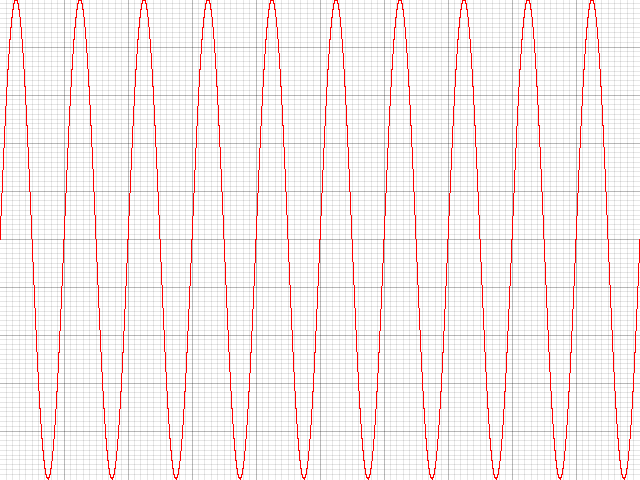
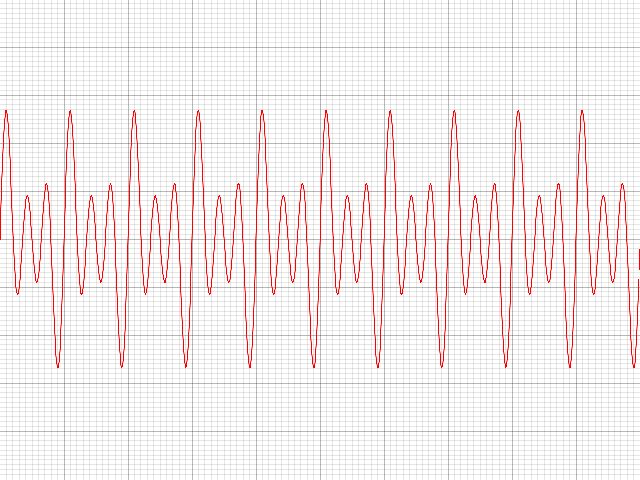
FFT - playground

diff --git a/playground/rust/src/main.rs b/playground/rust/src/main.rs
@@ -1,21 +1,61 @@
 use ndarray::Array1;
 use plotters::prelude::*;
+use rustfft::{FftPlanner, num_complex::Complex};
+
+struct Extent { 
+    xstart: f32, 
+    xend: f32, 
+    ystart: f32, 
+    yend:f32,
+}
+
+impl Extent {
+    fn new(xstart: f32, xend: f32, ystart: f32, yend:f32) -> Self {
+        Self {xstart: xstart, xend: xend, ystart: ystart, yend: yend}
+    }
+}
 
 fn main() -> Result<(), Box<dyn std::error::Error>> {
-    let root = BitMapBackend::new("output/0.png", (640, 480)).into_drawing_area();
-    root.fill(&WHITE)?;
-    
-    let mut chart = ChartBuilder::on(&root)
-        .build_cartesian_2d(0f32..1f32, -1f32..1f32)?;
+    // sinの合成波
+    let n_fft = 2048;
+    let times = sampling_axis(0.0, 1.0, n_fft as f32);
+    let w = 2. * std::f32::consts::PI;
+    let a = times.mapv(|x| 1.0 * (w * x * 10.0).sin());
+    let b = times.mapv(|x| 2.0 * (w * x * 20.0).sin());
+    let c = times.mapv(|x| 3.0 * (w * x * 30.0).sin());
 
-    chart.configure_mesh().draw()?;
+    let wave = a + b + c;
+    plot(times.iter().map(|x| *x), wave.iter().map(|x| *x), "output/0.png", Extent::new(0.0, 1.0, -10.0, 10.0))?;
 
-    let times = sampling_axis(0., 1., 16000.);
-    let w = 2. * std::f32::consts::PI * 10.;
-    chart.draw_series(LineSeries::new(times.iter().map(|x| (*x, (w * x).sin())), &RED))?;
+    // FFT
+    let mut planner = FftPlanner::new();
+    let fft = planner.plan_fft_forward(n_fft);
+    let mut wave = wave.mapv(|x| Complex{ re: x, im: 0.0 }).to_vec();
+    fft.process(&mut wave);
+
+    let xs = (0..n_fft).map(|x| x as f32);
+    let ys = wave.iter().map(|x| x.norm() / (wave.len() as f32).sqrt());
+    plot(xs, ys, "output/1.png", Extent::new(0.0, n_fft as f32 / 2.0, 0.0, 100.0))?;
+
     Ok(())
 }
 
 fn sampling_axis(start: f32, end: f32, rate: f32) -> Array1<f32> {
     Array1::range(start, end, 1. / rate)
+}
+
+fn plot<Iter1, Iter2>(xs: Iter1, ys: Iter2, file_name: &str, ex: Extent) -> Result<(), Box<dyn std::error::Error>> 
+where 
+    Iter1: Iterator<Item = f32>,
+    Iter2: Iterator<Item = f32>,
+{
+    let root = BitMapBackend::new(file_name, (640, 480)).into_drawing_area();
+    root.fill(&WHITE)?;
+    
+    let mut chart = ChartBuilder::on(&root)
+        .build_cartesian_2d(ex.xstart..ex.xend, ex.ystart..ex.yend)?;
+    chart.configure_mesh().draw()?;
+    chart.draw_series(LineSeries::new(xs.zip(ys), &RED))?;
+
+    Ok(())
 }
